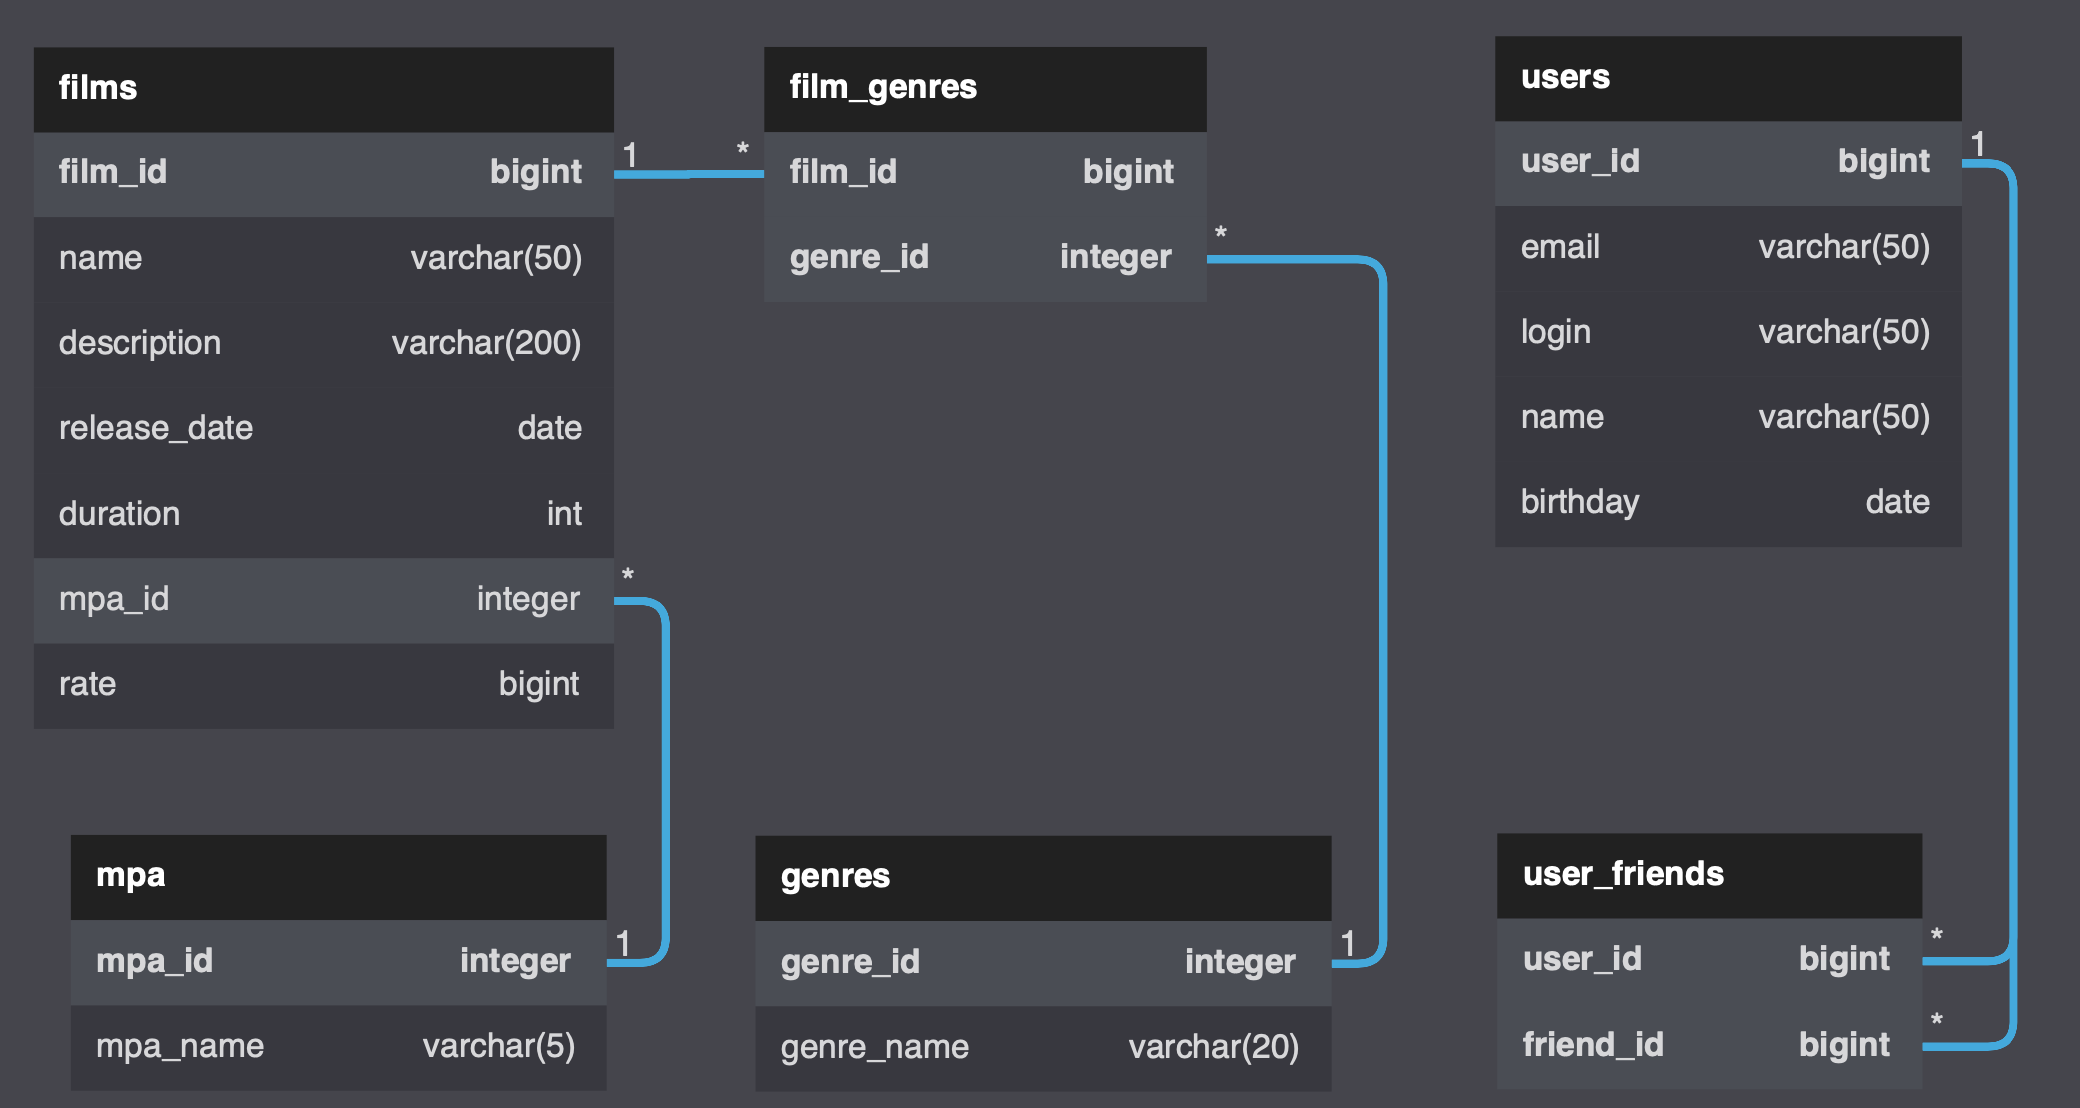
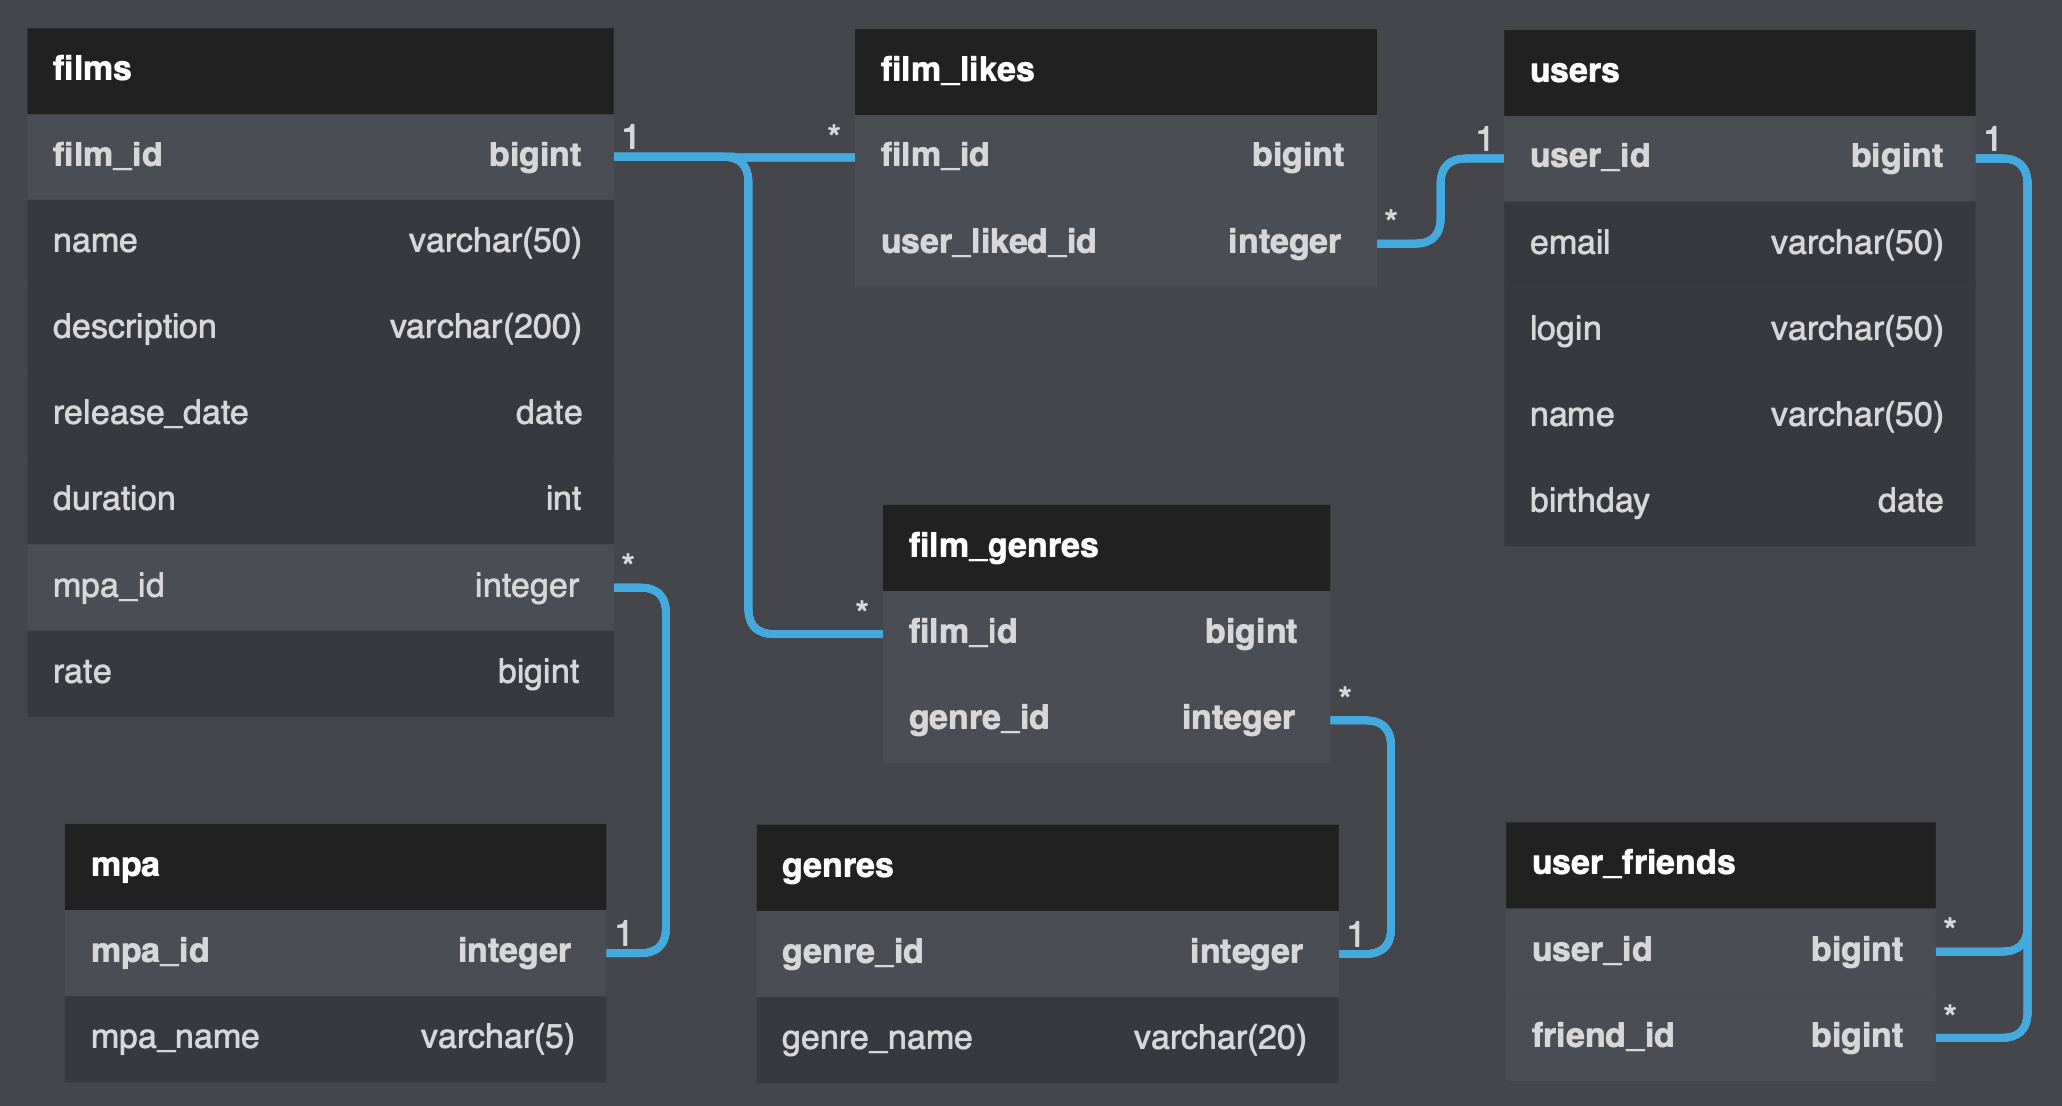
refactor: Add table film_likes, refactor DAO for Film class with filmLikes field, update ER

diff --git a/src/main/java/ru/yandex/practicum/filmorate/storage/film/FilmDbStorage.java b/src/main/java/ru/yandex/practicum/filmorate/storage/film/FilmDbStorage.java
@@ -63,6 +63,15 @@ public class FilmDbStorage implements FilmStorage {
             "LEFT JOIN mpa ON films.mpa_id = mpa.mpa_id " +
             "WHERE film_id = ?";
 
+    private static final String SQL_INSERT_LIKES = "INSERT INTO film_likes(film_id, user_liked_id) " +
+            "VALUES(?, ?)";
+
+    private static final String SQL_GET_FILM_LIKES = "SELECT user_liked_id " +
+            "FROM film_likes " +
+            "WHERE film_id=?";
+
+    private static final String SQL_DELETE_LIKES = "DELETE FROM film_likes WHERE film_id=?";
+
     public FilmDbStorage(JdbcTemplate jdbcTemplate) {
         this.jdbcTemplate = jdbcTemplate;
     }
@@ -86,7 +95,7 @@ public class FilmDbStorage implements FilmStorage {
 
             film.setId(keyHolder.getKey().longValue());
 
-            insertGenres(film);
+            insertLikesAndGenres(film);
 
         } catch (DataAccessException exception) {
             throw new SqlExceptionFilmorate("Ошибка при добавлении фильма в БД."
@@ -98,7 +107,11 @@ public class FilmDbStorage implements FilmStorage {
         return film;
     }
 
-    private void insertGenres(Film film) {
+    private void insertLikesAndGenres(Film film) {
+        for (Long id : film.getFilmLikes()) {
+            jdbcTemplate.update(SQL_INSERT_LIKES, film.getId(), id);
+        }
+
         if (film.getGenres() == null) {
             return;
         }
@@ -108,13 +121,15 @@ public class FilmDbStorage implements FilmStorage {
         }
     }
 
-    private void updateFilmsWithGenres(Film film) {
+    private void updateFilmsWithGenresAndLikes(Film film) {
 
         Set<Genre> genres = new HashSet<>(jdbcTemplate.query(SQL_GET_GENRES_LIST, this::makeGenresList, film.getId()));
 
         if (genres.size() > 0) {
             film.setGenres(genres);
         }
+
+        film.setFilmLikes(new HashSet<>(jdbcTemplate.query(SQL_GET_FILM_LIKES, this::makeFilmLikes, film.getId())));
     }
 
     @Override
@@ -128,9 +143,10 @@ public class FilmDbStorage implements FilmStorage {
                         , Map.of("object", "film", "id", String.valueOf(film.getId())));
             }
 
+            jdbcTemplate.update(SQL_DELETE_LIKES, film.getId());
             jdbcTemplate.update(SQL_DELETE_GENRES, film.getId());
-            insertGenres(film);
-            updateFilmsWithGenres(film);
+            insertLikesAndGenres(film);
+            updateFilmsWithGenresAndLikes(film);
 
         } catch (DataAccessException exception) {
             throw new SqlExceptionFilmorate("Ошибка при обновлении фильма в БД."
@@ -186,7 +202,7 @@ public class FilmDbStorage implements FilmStorage {
         film.setReleaseDate(rs.getDate("release_date").toLocalDate());
         film.setRate(rs.getLong("rate"));
 
-        updateFilmsWithGenres(film);
+        updateFilmsWithGenresAndLikes(film);
 
         return film;
     }
@@ -194,5 +210,9 @@ public class FilmDbStorage implements FilmStorage {
     private Genre makeGenresList(ResultSet rs, int rowNum) throws SQLException {
         return new Genre(rs.getInt("genre_id")
                 , rs.getString("genre_name"));
+    }
+
+    private Long makeFilmLikes(ResultSet rs, int rowNum) throws SQLException {
+        return rs.getLong("user_liked_id");
     }
 }

diff --git a/src/test/java/ru/yandex/practicum/filmorate/TestUserStorageAndFilmStorage.java b/src/test/java/ru/yandex/practicum/filmorate/TestUserStorageAndFilmStorage.java
@@ -5,7 +5,6 @@ import org.junit.jupiter.api.Test;
 import org.springframework.beans.factory.annotation.Autowired;
 import org.springframework.boot.test.autoconfigure.jdbc.AutoConfigureTestDatabase;
 import org.springframework.boot.test.context.SpringBootTest;
-import org.springframework.test.context.jdbc.Sql;
 import ru.yandex.practicum.filmorate.model.Film;
 import ru.yandex.practicum.filmorate.model.Genre;
 import ru.yandex.practicum.filmorate.model.Mpa;
@@ -36,20 +35,20 @@ public class TestUserStorageAndFilmStorage {
                 , new HashSet<>(Arrays.asList(new Genre(1, "Комедия")
                 , new Genre(2, "Драма"), new Genre(3, "Мультфильм")
                 , new Genre(4, "Документальный")))
-                , new Mpa(1, "G")));
+                , new Mpa(1, "G"), new HashSet<>()));
 
         filmStorage.addFilm(new Film(2L, "name2", "description2", LocalDate.now()
                 , 90, 100
                 , new HashSet<>(Arrays.asList(new Genre(1, "Комедия")
                 , new Genre(2, "Драма")
                 , new Genre(4, "Документальный")))
-                , new Mpa(2, "PG")));
+                , new Mpa(2, "PG"), new HashSet<>()));
 
         filmStorage.addFilm(new Film(3L, "name3", "description3", LocalDate.now()
                 , 120, 100
                 , new HashSet<>(Arrays.asList(new Genre(1, "Комедия")
                 , new Genre(4, "Документальный")))
-                , new Mpa(5, "NC-17")));
+                , new Mpa(5, "NC-17"), new HashSet<>()));
 
         //Тест filmStorage.getFilms();
         assertEquals(3, filmStorage.getFilms().size());
@@ -64,14 +63,14 @@ public class TestUserStorageAndFilmStorage {
                 , new HashSet<>(Arrays.asList(new Genre(1, "Комедия")
                 , new Genre(2, "Драма"), new Genre(3, "Мультфильм")
                 , new Genre(4, "Документальный")))
-                , new Mpa(1, "G")));
+                , new Mpa(1, "G"), new HashSet<>()));
         assertEquals("name1upd", filmStorage.getFilmById(1L).getName());
 
         filmStorage.updateFilm(new Film(3L, "name3", "description3upd", LocalDate.now()
                 , 100, 100
                 , new HashSet<>(Arrays.asList(new Genre(1, "Комедия")
                 , new Genre(2, "Драма"), new Genre(3, "Мультфильм")))
-                , new Mpa(1, "G")));
+                , new Mpa(1, "G"), new HashSet<>()));
         assertEquals("description3upd", filmStorage.getFilmById(3L).getDescription());
     }
 

diff --git a/src/test/java/ru/yandex/practicum/filmorate/TestFilmAndUserAndGenreAndMpaControllers.java b/src/test/java/ru/yandex/practicum/filmorate/TestFilmAndUserAndGenreAndMpaControllers.java
@@ -389,7 +389,7 @@ public class TestFilmAndUserAndGenreAndMpaControllers {
         //тест endpoint /films/{id}/like/{userId} PUT
         mockMvc.perform(put("/films/{id}/like/{userId}", 1, 1)
                         .contentType(MediaType.APPLICATION_JSON))
-                .andExpectAll(status().isOk(), jsonPath("$.rate").value(1));
+                .andExpectAll(status().isOk(), jsonPath("$.filmLikes.size()").value(1));
         mockMvc.perform(put("/films/{id}/like/{userId}", 6, 6)
                         .contentType(MediaType.APPLICATION_JSON))
                 .andExpect(status().isNotFound());
@@ -400,7 +400,7 @@ public class TestFilmAndUserAndGenreAndMpaControllers {
         //тест endpoint /films/{id}/like/{userId} DELETE
         mockMvc.perform(delete("/films/{id}/like/{userId}", 1, 1)
                         .contentType(MediaType.APPLICATION_JSON))
-                .andExpectAll(status().isOk(), jsonPath("$.rate").value(0));
+                .andExpectAll(status().isOk(), jsonPath("$.filmLikes.size()").value(0));
         mockMvc.perform(delete("/films/{id}/like/{userId}", 6, 6)
                         .contentType(MediaType.APPLICATION_JSON))
                 .andExpect(status().isNotFound());
@@ -433,9 +433,9 @@ public class TestFilmAndUserAndGenreAndMpaControllers {
                         .contentType(MediaType.APPLICATION_JSON))
                 .andExpectAll(status().isOk(), jsonPath("$.size()").value(2));
 
-        films[1].setRate(3L);
-        films[2].setRate(2L);
-        films[0].setRate(1L);
+        films[1].setFilmLikes(Set.of(1L, 2L, 3L));
+        films[2].setFilmLikes(Set.of(1L, 2L));
+        films[0].setFilmLikes(Set.of(1L));
 
         mockMvc.perform(get("/films/popular", 1, 1)
                         .contentType(MediaType.APPLICATION_JSON))

diff --git a/src/main/java/ru/yandex/practicum/filmorate/service/FilmService.java b/src/main/java/ru/yandex/practicum/filmorate/service/FilmService.java
@@ -28,7 +28,7 @@ public class FilmService {
         validateFilmAndUser(filmId, userId);
 
         Film film = filmStorage.getFilmById(filmId);
-        film.setRate(film.getRate() + 1);
+        film.getFilmLikes().add(userId);
         filmStorage.updateFilm(film);
 
         log.trace("Добавлен лайк к фильму -> Film id={} User id={}", filmId, userId);
@@ -41,7 +41,7 @@ public class FilmService {
         validateFilmAndUser(filmId, userId);
 
         Film film = filmStorage.getFilmById(filmId);
-        film.setRate(film.getRate() - 1);
+        film.getFilmLikes().remove(userId);
         filmStorage.updateFilm(film);
 
         log.trace("Удален лайк к фильму -> Film id={} User id={}", filmId, userId);
@@ -54,8 +54,8 @@ public class FilmService {
         log.trace("Отправлен топ популярных фильмов -> Количество фильмов: {}", count);
 
         return filmStorage.getFilms().stream().sorted((film1, film2) -> {
-                    long film1Likes = film1.getRate();
-                    long film2Likes = film2.getRate();
+                    long film1Likes = film1.getFilmLikes().size();
+                    long film2Likes = film2.getFilmLikes().size();
 
                     if (film1Likes < film2Likes) {
                         return 1;
